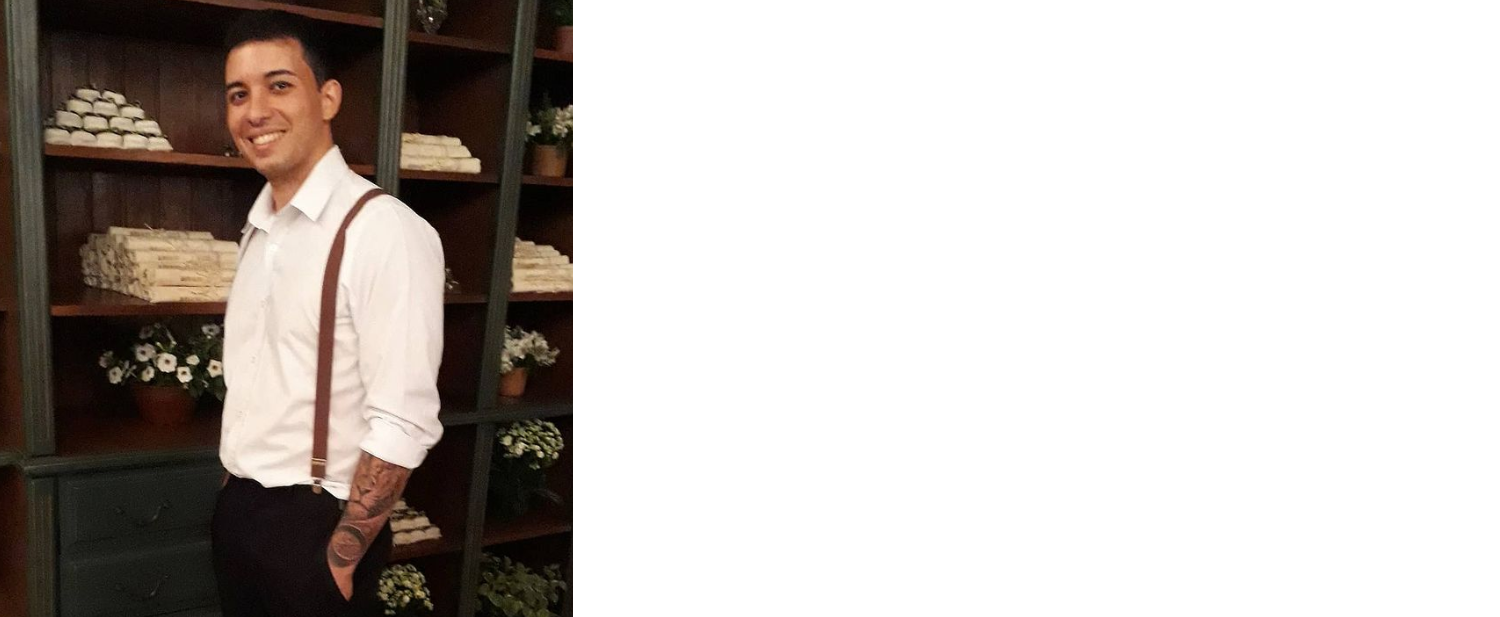
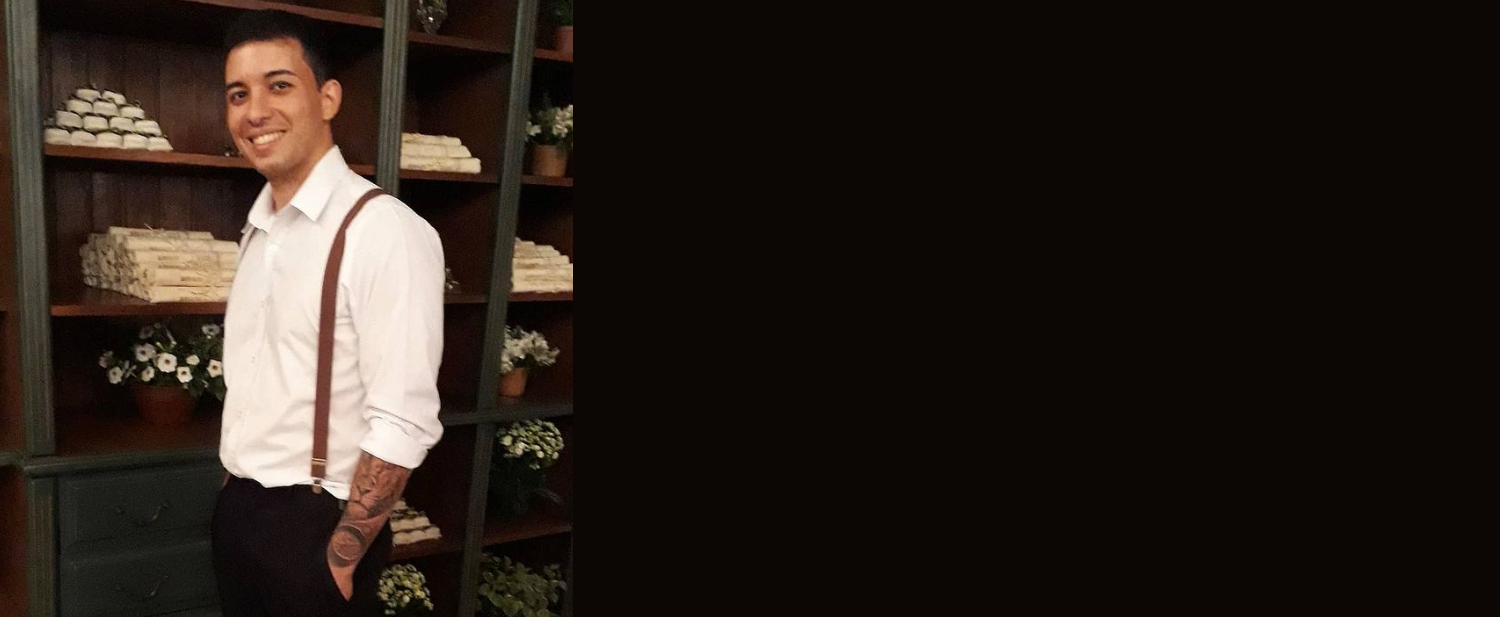
muda o background

diff --git a/index.html b/index.html
@@ -15,21 +15,23 @@
     
     body {  
 
-        background-color: #132033;
+        background-color: #ffffff
     }
        #menu {
         
           
-        height:600px;
+        height:1000px;
             width: 400px;
-            background-color: aliceblue;
+            background-color: #000000;
             float: left;
                 
     }
         #cabecalho {
-            
-                          float: center;
+             float: center;
              display: inline-block;
+             border-style: none;
+             border-width: 2px;
+             overflow: hidden;
              
              
                            
@@ -41,10 +43,13 @@
             height: 400px;
             background-image: url("images/rodrigo.png");
             transition: 1s;
-            border-radius: 50%;
             background-position: 6.5% 0%;
             position: absolute;
             margin: 150px;
+            border-radius: 50%;
+            border-style: solid;
+            border-right: #3a2822;
+            border-width: 10px;
        
         }
 
@@ -56,7 +61,9 @@
             text-align: center;
             padding-top: 0px;
             position: absolute;
-            margin-left: 600px;
+            margin: 230px 0 0 670px;
+            color: aliceblue;
+            
                         
   
         
@@ -72,23 +79,20 @@
 
         }
 
-        .fotorodrigo {
-            width: 400px;
-            height: 420px;
-            overflow: hidden;
-            transition: 1s;
-                    }
+                    #cabecalho #foto-top:hover {
 
-                    #foto-top:hover {
-
-                        width: 100%;
+                        width: 90%;
+                        border-style: solid;
+                        border: #3a2822;
+                        
                         
                         
                     }
 
+                               
                     .name {
-                        font-size: 91px;
-                        color: rgb(142, 180, 212);
+                        font-size: 84px;
+                        color: rgb(0, 0, 0);
                         font-family: sans-serif;
                         line-height: 70px;
                             text-align: justify;
@@ -99,11 +103,11 @@
                     }
                     .sobrenome {
                         font-size: 80px;
-                        color: rgb(178, 208, 235);
+                        color: rgb(0, 0, 0);
                         text-align: justify;
                     }
                     .descricao {
-                        color: rgb(203, 226, 247);
+                        color: rgb(0, 0, 0);
                         text-align: justify;
                     }
 
@@ -121,7 +125,7 @@
  
     <div id="cabecalho">
         <div id="menu">
-            <h2>Rodrigo</h2>
+            <h2></h2>
                 </div>
         <div id="foto-top">
                
@@ -129,7 +133,7 @@
             </div>
                 
 
-            <div id="perfil"><span class="name"><p>Rodrigo<br></p></span><span class="sobrenome">Paz Alves</span><br><span class="descricao">Olá me chamo Rodrigo paz alves lima, sou estudante em desenvolvimento web na TRYBE</span></p></div>
+            <div id="perfil"><span class="name"><p><strong>Rodrigo</strong><br></p></span><span class="sobrenome">Paz Alves</span><br><span class="descricao">Olá me chamo Rodrigo paz alves lima, sou estudante em desenvolvimento web na TRYBE</span></p></div>
    
 
 </body>
